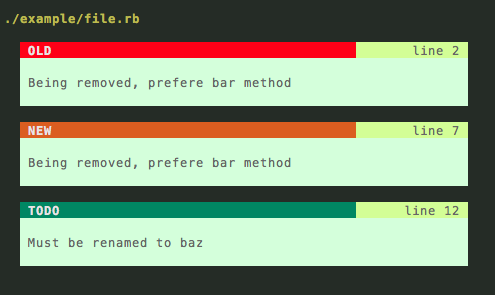
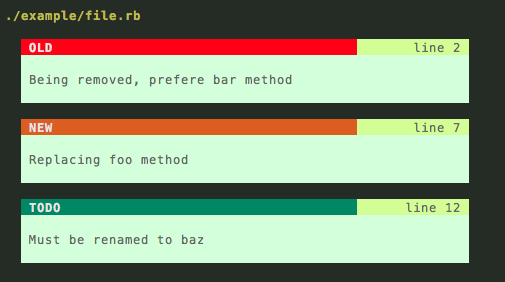
improve README

diff --git a/README.md b/README.md
@@ -28,7 +28,7 @@ def foo
   # Do something...
 end
 
-# @flag [NEW] being removed, prefere bar method
+# @flag [NEW] replacing foo method
 def bar
   # Do something...
 end
